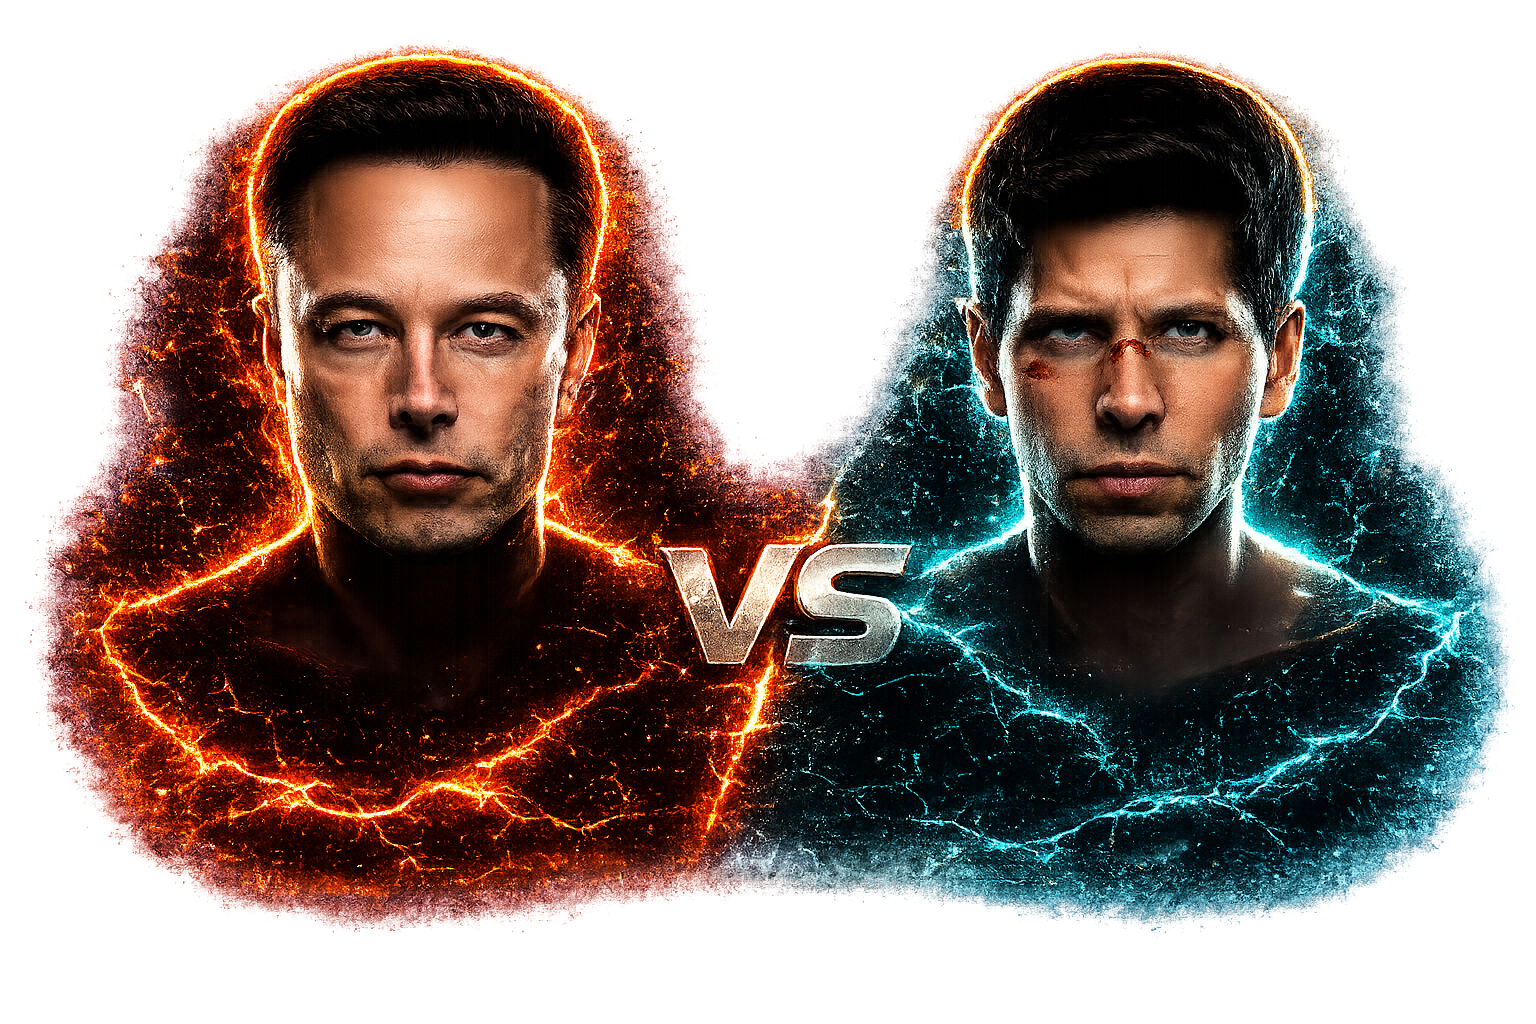
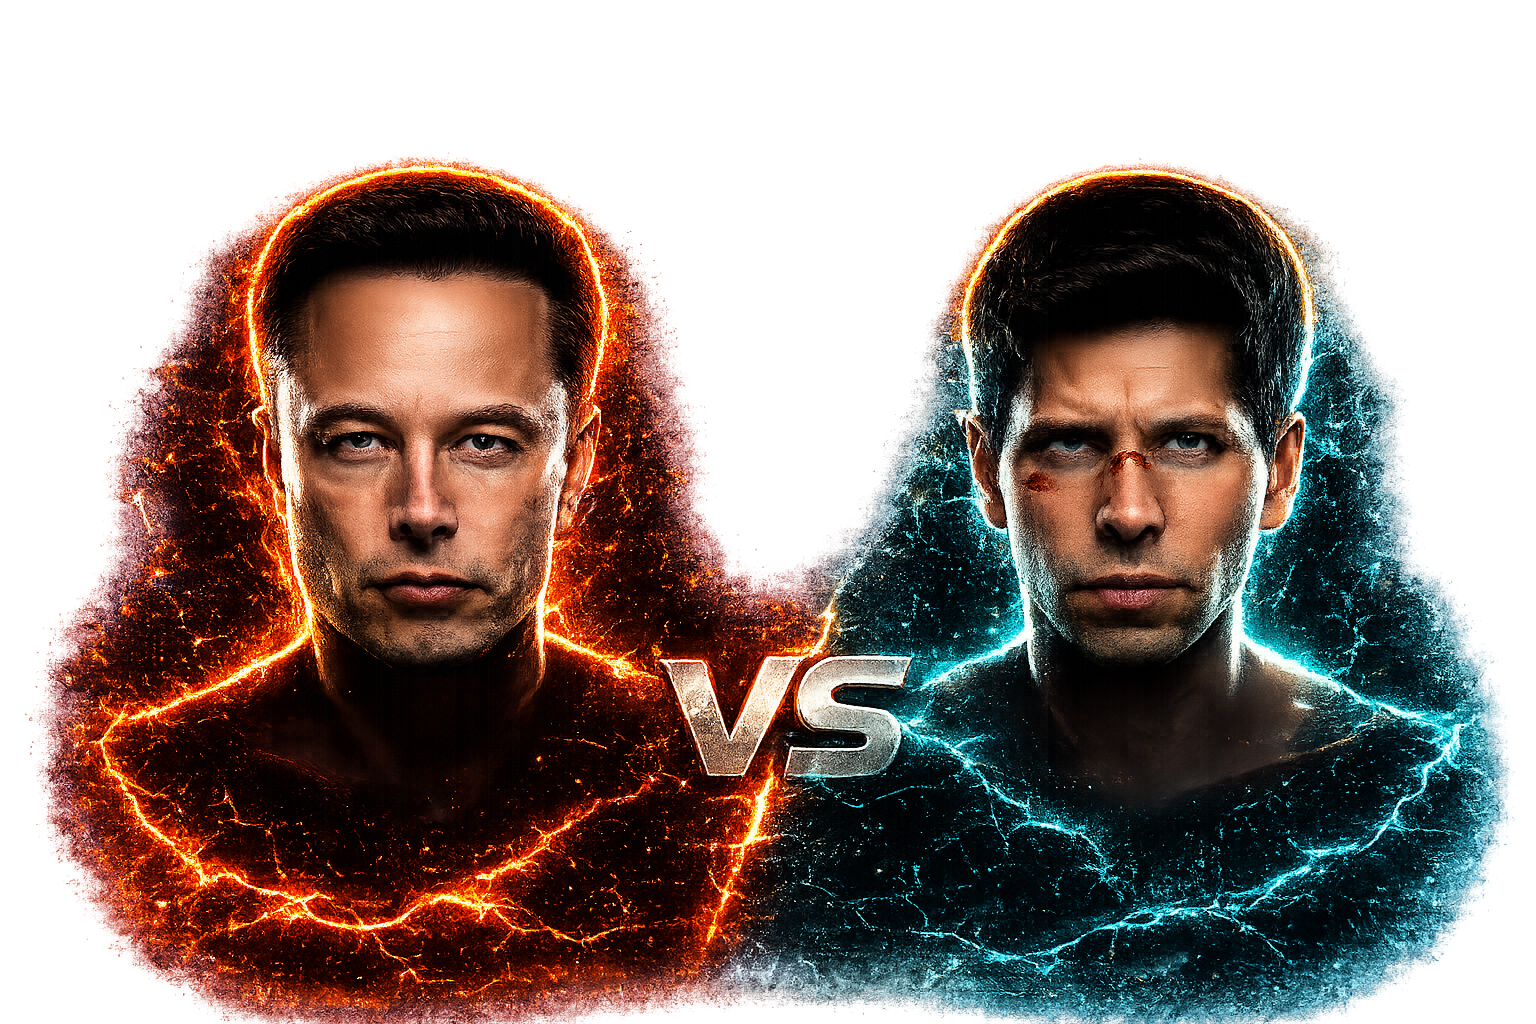
.

diff --git a/index.html b/index.html
@@ -1234,7 +1234,7 @@
                               <a href="#about">ABOUT</a>
                               <span class="psyop-divider" aria-hidden="true">|</span>
 
-                              <a href="https://app.uniswap.org/swap?chain=mainnet&inputCurrency=NATIVE&outputCurrency=0xComingSoon"
+                              <a href="https://app.uniswap.org/swap?chain=mainnet&inputCurrency=NATIVE&outputCurrency=0x0xf2d4ec7231fa6466c9f0a813aa8319b9928a395d"
                                 target="_blank" rel="noopener">
                                 BUY $EVS
                               </a>
@@ -1854,7 +1854,7 @@
                 <div class="psyop-contract">
                   <div class="psyop-contract-box">
                     <span id="psyopContract" class="psyop-contract-text">
-                      TBA
+                      0xf2d4ec7231fa6466c9f0a813aa8319b9928a395d
                     </span>
                   </div>
                   <button class="psyop-copy-btn"
@@ -2013,7 +2013,7 @@
                                           </a>
 
                                           <a class="psyop-btn"
-                                            href="https://app.uniswap.org/swap?chain=mainnet&inputCurrency=NATIVE&outputCurrency=0xComingSoon"
+                                            href="https://app.uniswap.org/swap?chain=mainnet&inputCurrency=NATIVE&outputCurrency=0x0xf2d4ec7231fa6466c9f0a813aa8319b9928a395d"
                                             target="_blank" rel="noopener">
                                             <span>BUY $EVS</span>
                                           </a>
@@ -2979,7 +2979,7 @@
                             rel="noopener">X/TWITTER</a>
 
                           <a class="psyop-chip psyop-link"
-                            href="https://dexscreener.com/ethereum/TBA"
+                            href="https://dexscreener.com/ethereum/0xf2d4ec7231fa6466c9f0a813aa8319b9928a395d"
                             target="_blank" rel="noopener">DEXSCREENER</a>
                         </div>
 
@@ -2991,7 +2991,7 @@
                         </div>
 
                         <div class="psyop-contract-box">
-                          <span id="psyopLoreCA">TBA</span>
+                          <span id="psyopLoreCA">0xf2d4ec7231fa6466c9f0a813aa8319b9928a395d</span>
                           <button class="psyop-copy-btn" type="button"
                             onclick="navigator.clipboard.writeText(document.getElementById('psyopLoreCA').innerText)">COPY</button>
                         </div>
@@ -3627,28 +3627,14 @@
                       </p>
 
                       <h3 class="psyop-join-title">$EVS</h3>
-<br>
-                      <p class="psyop-join-body">
-                        Elon Musk vs Sam Altman.<br/>
- 
-The 2015 "nonprofit" dream vs. the $852 B Microsoft money machine.  <br/>
-
-Musk seeded it with $40M to build AGI for humanity.<br/>
-They went full profit mode and closed the doors.  <br/>
-                      </p>
-<br>
-                      <p class="psyop-join-body" style="margin-top:12px">
-                        Now the trial begins in Oakland, Elon vs Sam! .   
-
-
-                      </p>
+                      <blockquote class="twitter-tweet"><p lang="en" dir="ltr">We can&#39;t wait to make our case in court where both the truth and the law are on our side. This lawsuit has always been a baseless and jealous bid to derail a competitor. We&#39;ll also finally have the chance to question Mr. Musk under oath before a jury of Californians about this…</p>&mdash; OpenAI Newsroom (@OpenAINewsroom) <a href="https://twitter.com/OpenAINewsroom/status/2048776645142872368?ref_src=twsrc%5Etfw">April 27, 2026</a></blockquote> <script async src="https://platform.twitter.com/widgets.js" charset="utf-8"></script>
 
                       <div class="psyop-chipline">
                         <a class="psyop-chip" href="https://x.com/elonvssamaltman" target="_blank" rel="noopener">X/TWITTER</a>
                         <a class="psyop-chip" href="https://t.me/elonvssamaltman" target="_blank"
                           rel="noopener">Telegram</a>
                         <a class="psyop-chip"
-                          href="https://dexscreener.com/ethereum/TBA"
+                          href="https://dexscreener.com/ethereum/0xf2d4ec7231fa6466c9f0a813aa8319b9928a395d"
                           target="_blank" rel="noopener">DEXSCREENER</a>
                       </div>
                     </div>
@@ -3957,7 +3943,7 @@ They went full profit mode and closed the doors.  <br/>
                       <a class="psyop-chip" href="https://x.com/elonvssamaltman" target="_blank">X/TWITTER</a>
                       <a class="psyop-chip" href="https://t.me/elonvssamaltman" target="_blank">Telegram</a>
                       <a class="psyop-chip"
-                        href="https://dexscreener.com/ethereum/TBA"
+                        href="https://dexscreener.com/ethereum/0xf2d4ec7231fa6466c9f0a813aa8319b9928a395d"
                         target="_blank">DEXSCREENER</a>
                     </div>
 
